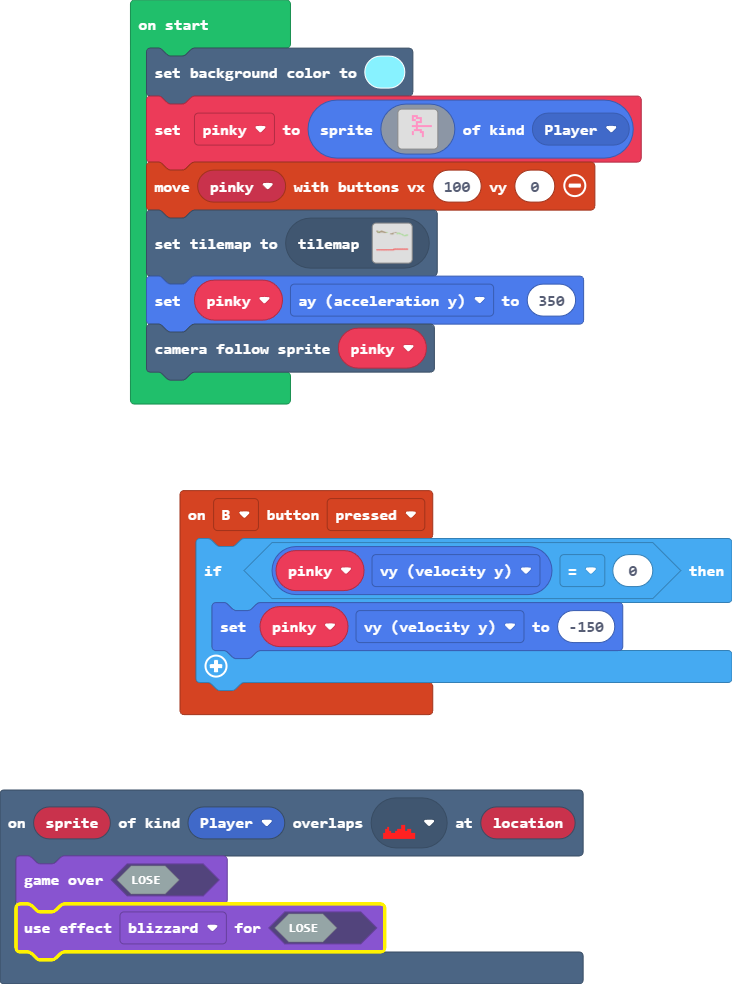
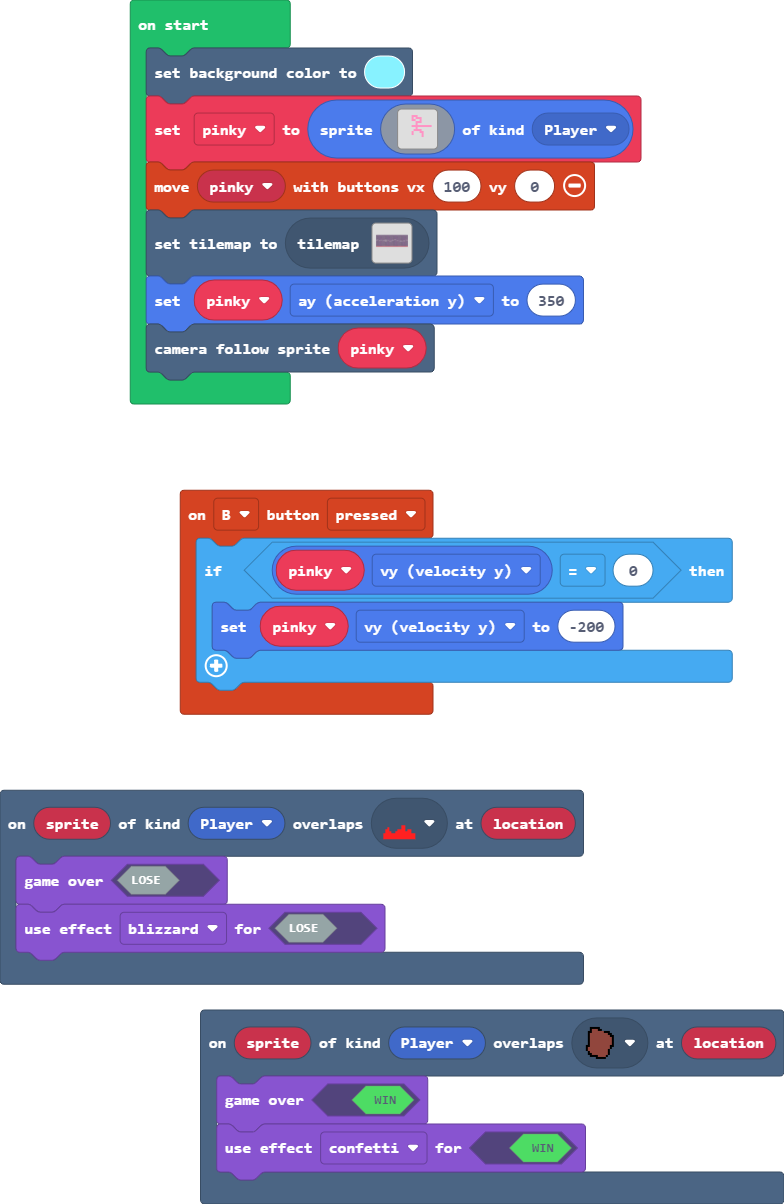
Update pxt.json, main.blocks, main.ts, main.py, tilemap.g.jres, tilemap.g.ts

diff --git a/tilemap.g.ts b/tilemap.g.ts
@@ -6,62 +6,66 @@ namespace myTiles {
     export const tile1 = image.ofBuffer(hex``);
     //% fixedInstance jres blockIdentity=images._tile
     export const tile2 = image.ofBuffer(hex``);
+    //% fixedInstance jres blockIdentity=images._tile
+    export const tile4 = image.ofBuffer(hex``);
+    //% fixedInstance jres blockIdentity=images._tile
+    export const tile3 = image.ofBuffer(hex``);
 
     helpers._registerFactory("tilemap", function(name: string) {
         switch(helpers.stringTrim(name)) {
             case "level1":
-            case "level1":return tiles.createTilemap(hex`3200320000000000000000000000000000000000000000000000000000000000000000000000000000000000000000000000000000000000000000000000000000000000000000000000000000000000000000000000000000000000000000000000000000000000000000000000000000000000000000000000000000000000000000000000000000000000000000000000000000000000000000000000000000000000000000000000000000000000000000000000000000000000000000000000000000000000000000000000000000000000000000000000000000000000000000000000000000000000000000000000000000000000000000000000000000000000000000000000000000000000000000000000000000000000000000000000000000000000000000000000000001010100000000010101000000000000000000000000000000000000000000000000000000000000000000000000000000000000010202010101000101010100000000000000000000000000000000000000000000000000000000000000000000000000000001010101000000000000010101010202000000000000000000000100010100000000000000000000000000000000000000000000000000000000000000000000000000000000000000000100000000000002020202000000000000000000000000000000000000000000000000000000000000000000000001010101010000000000020200000202020000000000000000000000000000000000000000000000000000000000000000000000000000000000000000000000000000020202000000000000000000000000000000000000000000000000000000000000000000000000000000000000000000000000000202000000020202020000000000000000000000000000000000000000000000000000000000000000000000000000000000000002020202000000000000000000000000000000000000000000000000000000000000000000000000000000000000000000000000000000000000000000000000000000000000000000000000000000000000000000000000000000000000000000000000000000000000000000000000000000000000000000000000000000000000000000000000000000000000000000000000000000000000000000000000000000000000000000000000000000000000000000000000000000000000000000000000000000000000000000000000000000000000000000000000000000000000000000000000000000000000000000000000000000000000000000000000000000000000000000000000000000000000000000000000000000000000000000000000000000000000000000000000000000000000000000000000000000000000000000000000000000000000000000000000000000000000000000000000000000000000000000000000000000000000000000000000000000000000000000000000000000000000000000000000000000000000000000000000000000000000000000000000000000000000000000000000000000000000000000000000000000000000000000000000000000000000000000000000000000000000000000000000000000000000000000000000000000000000000000000000000000000000000000000000000000000000000000000000000000000000000000000000000000000000000000000000000000000000000000000000000000000000000000000000000000000000000000000000000000000000000000000000000000000000000000000000000000000000000000000000000000000000000000000000000000000000000000000000000000000000000000000000000000000000000000000000000000000000000000000000000000000000000000000000000000000000000000000000000000000000000000000000000000000000000000000000000000000000000000000000000000000000000000000000000000000000000000000000000000000000000000000000000000000000000000000000000000000000000000000000000000000000000000000000000000000000000000000000000000000000000000000000000000000000000000000000000000000000000000000000000000000000000000000000000000000000000000000000000000000000000000000000000000000000000000000000000000000000000000000000000000000000000000000000000000000000000000000000000000000000000000000000000000000000000000000000000000000000000000000000000000000000000000000000000000000000000000000000000000000000000000000000000000000000000000000303030303030303030303030303030303030303030303030303030303030303030303030303030303030303030303030303030000000000000000000000000000000000000000000000000000000000000000000000000000000000000000000000000000000000000000000000000000000000000000000000000000000000000000000000000000000000000000000000000000000000000000000000000000000000000000000000000000000000000000000000000000000000000000000000000000000000000000000000000000000000000000000000000000000000000000000000000000000000000000000000000000000000000000000000000000000000000000000000000000000000000000000000000000000000000000000000000000000000000000000000000000000000000000000000000000000000000000000000000000000000000000000000000000000000000000000000000000000000000000000000000000000000000000000000000000000000000000000000000000000000000000000000000000000000000000000000000000000000000000000000000000000000000000000000000000000000000000000000000000000000000000000000000000000000000000000000000000000000000000000000000000000000000000000000000000000000000000000000000000000000000000000000000000000000000000000000000000000000000000000000000000000000000000000000000000000000000000000000000000000000000000000000000000000000000000000000000000000000000000000000000000000000000000000000000000000000000000000000000000000000000000000000000000000000000000000000000000000000000000000000000000000000000000000000000000000000000000000000000000000000000000000000000000000000000000000000000000000000000000000000000000000000000000000000000000000000000000000000000000000000000000000000000000000000000000000000000000`, img`
-..................................................
-..................................................
-..................................................
-..................................................
-..................................................
-..................................................
-222....222........................................
-..222222.2222.....................................
-..2222......222222..........2.22..................
-..........................2......2222.............
-......................22222.....22..222...........
-......................................2222........
-.........................................222..2222
-...........................................2222...
-..................................................
-..................................................
-..................................................
-..................................................
-..................................................
-..................................................
-..................................................
-..................................................
-..................................................
-..................................................
-..................................................
-..................................................
-..................................................
-..................................................
-..................................................
-..................................................
-..................................................
-..................................................
-..................................................
-..................................................
-...........................22222222222222222222222
-.2222222222222222222222222222.....................
-...............222................................
-..................................................
-..................................................
-..................................................
-..................................................
-..................................................
-..................................................
-..................................................
-..................................................
-..................................................
-..................................................
-..................................................
-..................................................
-..................................................
-`, [myTiles.transparency16,myTiles.tile1,sprites.castle.tileGrass2,myTiles.tile2], TileScale.Sixteen);
+            case "level1":return tiles.createTilemap(hex`640032000303030303030303030303030303030303030303030303030303030303030303030303030303030303030303030303030303030303030303030303030303030303030303030303030303030303030303030303030303030303030303030303030303030303030303030303030303030303030303030303030303030303030303030303030303030303030303030303030303030303030303030303030303030303030303030303030303030303030303030303030303030303030303030303030303030303030303030303030303030303030303030303030303030303030303030303030303030303030303030303030303030303030303030303030303030303030303030303030303030303030303030303030303030303030303030303030303030303030303030303030303030303030303030303030303030303030303030303030303030303030303030303030303030303030303030303030303030303030303030303030303030303030303030303030303030303030303030303030303030303030303030303030303030303030303030303030303030303030303030303030303030303030303030303030303030303030303030303030303030303030303030303030303030303030303030303030303030303030303030303030303030303030303030303030303030303030303030303030303030303030303030303030303030303030303030303030303030303030303030303030303030303030303030303030303030303030303030303030303030303030303030303030303030303030303030303030303030303030303030303030303030303030303030303030303030303030303030303030303030303030303030303030303030303030303030303030303030303030303030303030303030303030303030303030303030303030303030303030303030303030303030303030303030303030303030303030303030303030303030303030303030303030303030303030303030303030303030303030303030303030303030303030303030303030303030303030303030303030303030303030303030303030303030303030303030303030303030303030303030303030303030303030303030303030303030303030303030303030303030303030303030303030303030303030303030303030303030303030303030303030303030303030303030303030303030303030303030303030303030303030303030303030303030303030303030303030303030303030303030303030303030303030303030303030303030303030303030303030303030303030303030303030303030303030303030303030303030303030303030303030303030303030303030303030303030303030303030303030303030303030303030303030303030303030303030303030303030303030303030303030303030303030303030303030303030303030303030303030303030303030303030303030303030303030303030303030303030303030303030303030303030303030303030303030303030303030303030303030303030303030303030303030303030303030303030303030303030303030303030303030303030303030303030303030303030303030303030303030303030303030303030303030303030303030303030303030303030303030303030303030303030303030303030303030303030303030303030303030303030303030303030303030303030303030303030303030303030303030303030303030303030303030303030303030303030303030303030303030303030303030303030303030303030303030303030303030303030303030303030303030303030303030303030303030303030303030303030303030303030303030303030303030303030303030303030303030303030303030303030303030303030303030303030303030303030303030303030303030303030303030303030303030303030303030303030303040404040404040303030303030303030303030303030303030303030303030303030303030303030303030303030304040404030303030303030303030303030303030303030304040404040403030303030303030303030303030303030303030303030303030303030303030303030303030303030303030303030303030303030303030303030303030303030204040404030303030303030303030304040404030303030303030303030303030303030303040404040303030303030303030304040404040303030303030303030303030303030303030303030303030303030303030303030303030303040404040404030303030303030303030404040403030303030303040404040404030303030303030303030303030303030303030303030304030303030303030303030303030304040404040403030303030303030303030303030303030303030303030303030303030303030303030303030303030303030303030303030303030303030304040403040404030303030303030303030303030304030303030303030303030303030303030303030303030303030303030303030303030303040404040404030303030303030303030303030303030303030303030303030303030303030303030303030304040403030303030303030304040404040404030303030303030303030303030303030303030303030303030404040404040404040403030303030303030303030303030303030303030303030303030303030303030303030303030303030303030303030303030303030303030303030303030303030303030303030303030303030303030303030303030303030303030303030303030303030303030303030303030303030303030303030303030303030303030303030303030303030303030303030303030303030303030303030303030303030303030303030303030303030303030303030303030303030303030303030303030303030303030303030303030303030303030303030303030303030303030303030303030303030303030303030303030303030303030303030303030303030303030303030303030303030303030303030303030303030303030303030303030303030303030303030303030303030303030303030303030303030303030303030303030303030303030303030303030303030303030303030303030303030303030303030303030303030303030303030303030303030303030303030303030303030303030303030303030303030303030303030303030303030303030303030303030303030303030303030303030303030303030303030303030303030303030303030303030303030303030303030303030303030303030303030303030303030303030303030303030303030303030303030303030303030303030303030303030303030303030303030303030303030303030303030303030303030303030303030303030303030303030303030303030303030303030303030303030303030303030303030303030303030303030303030303030303030303030303030303030303030303030303030303030303030303030303030303030303030303030303030303030303030303030303030303030303030303030303030303030303030303030303030303030303030303030303030303030303030303030303030303030303030303030303030303030303030303030303030303030303030303030303030303030303030303030303030303030303030303030303030303030303030303030303030303030303030303030303030303030303030303030303030303030303030303030303030303030303030303030303030303030303030303030303030303030303030303030303030303030303030303030303030303030303030303030303030303030303030303030303030303030303030303030303030303030303030303030303030303030303030303030303030303030303030303030303030303030303030303030303030303030303030303030303030303030303030303030303030303030303030303030303030303030303030303030303030303030303030303030303030303030303030303030303030303030303030303030303030303030303030303030303030303030303030303030303030303030303030303030303030303030303030303030303030303030303030303030303030303030303030303030303030303030303030303030303030303030303030303030303030303030303030303030303030303030303030303030303030303030303030303030303030303030303030303030303030303030303030303030303030303030303030303030303030303030303030303030303030303030303030303030303030303030303030303030303030303030303030303030303030303030303030303030303030303030303030303030303030303030303030303030303030303030303030303030303030303030303030303030303030303030303030303030303030303030303030303030303030303030303030303030303030303030303030303030303030303030303030303030303030303030303030303030303030303030303030303030303030303030303030303030303030303030303030303030303030303030303030303030303030303030303030303030303030303030303030303030303030303030303030303030303030303030303030303030303030303030303030303030303030303030303030303030303030303030303030303030303030303030303010101010101010101010101010101010101010101010101010101010101010101010101010101010101010101010101010101010101010101010101010101010101010101010101010101010101010101010101010101010101010101010101010101010000000000000000000000000000000000000000000000000000000000000000000000000000000000000000000000000000000000000000000000000000000000000000000000000000000000000000000000000000000000000000000000000000000000000000000000000000000000000000000000000000000000000000000000000000000000000000000000000000000000000000000000000000000000000000000000000000000000000000000000000000000000000000000000000000000000000000000000000000000000000000000000000000000000000000000000000000000000000000000000000000000000000000000000000000000000000000000000000000000000000000000000000000000000000000000000000000000000000000000000000000000000000000000000000000000000000000000000000000000000000000000000000000000000000000000000000000000000000000000000000000000000000000000000000000000000000000000000000000000000000000000000000000000000000000000000000000000000000000000000000000000000000000000000000000000000000000000000000000000000000000000000000000000000000000000000000000000000000000000000000000000000000000000000000000000000000000000000000000000000000000000000000000000000000000000000000000000000000000000000000000000000000000000000000000000000000000000000000000000000000000000000000000000000000000000000000000000000000000000000000000000000000000000000000000000000000000000000000000000000000000000000000000000000000000000000000000000000000000000000000000000000000000000000000000000000000000000000000000000000000000000000000000000000000000000000000000000000000000000000000000000000000000000000000000000000000000000000000000000000000000000000000000000000000000000000000000000000000000000000000000000000000000000000000000000000000000000000000000000000000000000000000000000000000000000000000000000000000000000000000000000000000000000000000000000000000000000000000000000000000000000000000000000000000000000000000000000000000000000000000000000000000000000000000000000000000000000000000000000000000000000000000000000000000000000000000000000000000000000000000000000000000000000000000000000000000000000000000000000000000000000000000000000000000000000000000000000000000000000000000000000000000000000000000000000000000000000000000000000000000000000000000000000000000000000000000000000000000000000000000000000000000000000000000000000000000000000000000000000000000000000000000000000000000000000000000000000000000000000000000000000000000000000000000000000000000000000000000000000000000000000000000000000000000000000000000000000000000000000000000000000000000000000000000000000000000000000000000000000000000000000000000000000000000000000000000000000000000000000000000000000000000000000000000000000000000000000000000000000000000000000000000000000000000000000000000000000000000000000000000000000000000000000000000000000000000000000000000000000000000000000000000000000000000000000000000000000000000000000000000000000000000000000000000000000000000000`, img`
+....................................................................................................
+....................................................................................................
+....................................................................................................
+....................................................................................................
+....................................................................................................
+....................................................................................................
+....................................................................................................
+....................................................................................................
+....................................................................................................
+....................................................................................................
+....................................................................................................
+....................................................................................................
+....................................................................................................
+....................................................................................................
+.........................................................2222222....................................
+....2222....................222222..................................................................
+2222...........2222..................2222..........22222......................................222222
+..........2222.......222222.......................2..............222222.............................
+............................222.222..............2....................................222222........
+..............................222.........2222222.........................2222222222................
+....................................................................................................
+....................................................................................................
+....................................................................................................
+....................................................................................................
+....................................................................................................
+....................................................................................................
+....................................................................................................
+....................................................................................................
+....................................................................................................
+....................................................................................................
+....................................................................................................
+....................................................................................................
+....................................................................................................
+....................................................................................................
+....................................................................................................
+....................................................................................................
+2222222222222222222222222222222222222222222222222222222222222222222222222222222222222222222222222222
+....................................................................................................
+....................................................................................................
+....................................................................................................
+....................................................................................................
+....................................................................................................
+....................................................................................................
+....................................................................................................
+....................................................................................................
+....................................................................................................
+....................................................................................................
+....................................................................................................
+....................................................................................................
+....................................................................................................
+`, [myTiles.transparency16,myTiles.tile2,myTiles.tile3,sprites.dungeon.darkGroundCenter,sprites.dungeon.floorLight5], TileScale.Sixteen);
         }
         return null;
     })
@@ -73,6 +77,10 @@ namespace myTiles {
             case "tile1":return tile1;
             case "myTile0":
             case "tile2":return tile2;
+            case "myTile2":
+            case "tile4":return tile4;
+            case "myTile1":
+            case "tile3":return tile3;
         }
         return null;
     })

diff --git a/main.ts b/main.ts
@@ -1,33 +1,44 @@
-scene.onOverlapTile(SpriteKind.Player, assets.tile`myTile0`, function (sprite, location) {
+scene.onOverlapTile(SpriteKind.Player, assets.tile`
+        myTile0
+    `, function on_overlap_tile(sprite: Sprite, location: tiles.Location) {
     game.gameOver(false)
     game.setGameOverEffect(false, effects.blizzard)
 })
-controller.B.onEvent(ControllerButtonEvent.Pressed, function () {
-    if (pinky.vy == 0) {
-        pinky.vy = -150
-    }
+scene.onOverlapTile(SpriteKind.Player, assets.tile`
+        myTile1
+    `, function on_overlap_tile2(sprite2: Sprite, location2: tiles.Location) {
+    game.gameOver(true)
+    game.setGameOverEffect(true, effects.confetti)
 })
-let pinky: Sprite = null
+controller.B.onEvent(ControllerButtonEvent.Pressed, function on_b_pressed() {
+    if (pinky.vy == 0) {
+        pinky.vy = -200
+    }
+    
+})
+let pinky : Sprite = null
 scene.setBackgroundColor(9)
 pinky = sprites.create(img`
-    . . . . . . . . . . . . . . . . 
-    . . . . . 3 3 3 . . . . . . . . 
-    . . . . . 3 . 3 3 3 . . . . . . 
-    . . . . . 3 3 . . 3 . . . . . . 
-    . . . . . . . 3 3 3 . . . . . . 
-    . . . . . . . 3 . . . . . . . . 
-    . . . . . 3 3 3 3 3 3 3 3 3 3 . 
-    . . . . . . . 3 . . . . . . . . 
-    . . . . . . 3 3 3 3 . . . . . . 
-    . . . . . 3 . . . 3 3 . . . . . 
-    . . . . . 3 . . . . 3 . . . . . 
-    . . . . . . . . . . 3 . . . . . 
-    . . . . . . . . . . . . . . . . 
-    . . . . . . . . . . . . . . . . 
-    . . . . . . . . . . . . . . . . 
-    . . . . . . . . . . . . . . . . 
+        . . . . . . . . . . . . . . . . 
+            . . . . . 3 3 3 . . . . . . . . 
+            . . . . . 3 . 3 3 3 . . . . . . 
+            . . . . . 3 3 . . 3 . . . . . . 
+            . . . . . . . 3 3 3 . . . . . . 
+            . . . . . . . 3 . . . . . . . . 
+            . . . . . 3 3 3 3 3 3 3 3 3 3 . 
+            . . . . . . . 3 . . . . . . . . 
+            . . . . . . 3 3 3 3 . . . . . . 
+            . . . . . 3 . . . 3 3 . . . . . 
+            . . . . . 3 . . . . 3 . . . . . 
+            . . . . . . . . . . 3 . . . . . 
+            . . . . . . . . . . . . . . . . 
+            . . . . . . . . . . . . . . . . 
+            . . . . . . . . . . . . . . . . 
+            . . . . . . . . . . . . . . . .
     `, SpriteKind.Player)
 controller.moveSprite(pinky, 100, 0)
-tiles.setCurrentTilemap(tilemap`level1`)
+tiles.setCurrentTilemap(tilemap`
+    level1
+`)
 pinky.ay = 350
 scene.cameraFollowSprite(pinky)

diff --git a/main.py b/main.py
@@ -1,5 +1,29 @@
+def on_overlap_tile(sprite, location):
+    game.game_over(False)
+    game.set_game_over_effect(False, effects.blizzard)
+scene.on_overlap_tile(SpriteKind.player,
+    assets.tile("""
+        myTile0
+    """),
+    on_overlap_tile)
+
+def on_overlap_tile2(sprite2, location2):
+    game.game_over(True)
+    game.set_game_over_effect(True, effects.confetti)
+scene.on_overlap_tile(SpriteKind.player,
+    assets.tile("""
+        myTile1
+    """),
+    on_overlap_tile2)
+
+def on_b_pressed():
+    if pinky.vy == 0:
+        pinky.vy = -200
+controller.B.on_event(ControllerButtonEvent.PRESSED, on_b_pressed)
+
+pinky: Sprite = None
 scene.set_background_color(9)
-mySprite = sprites.create(img("""
+pinky = sprites.create(img("""
         . . . . . . . . . . . . . . . . 
             . . . . . 3 3 3 . . . . . . . . 
             . . . . . 3 . 3 3 3 . . . . . . 
@@ -18,7 +42,9 @@ mySprite = sprites.create(img("""
             . . . . . . . . . . . . . . . .
     """),
     SpriteKind.player)
-controller.move_sprite(mySprite)
+controller.move_sprite(pinky, 100, 0)
 tiles.set_current_tilemap(tilemap("""
     level1
 """))
+pinky.ay = 350
+scene.camera_follow_sprite(pinky)
